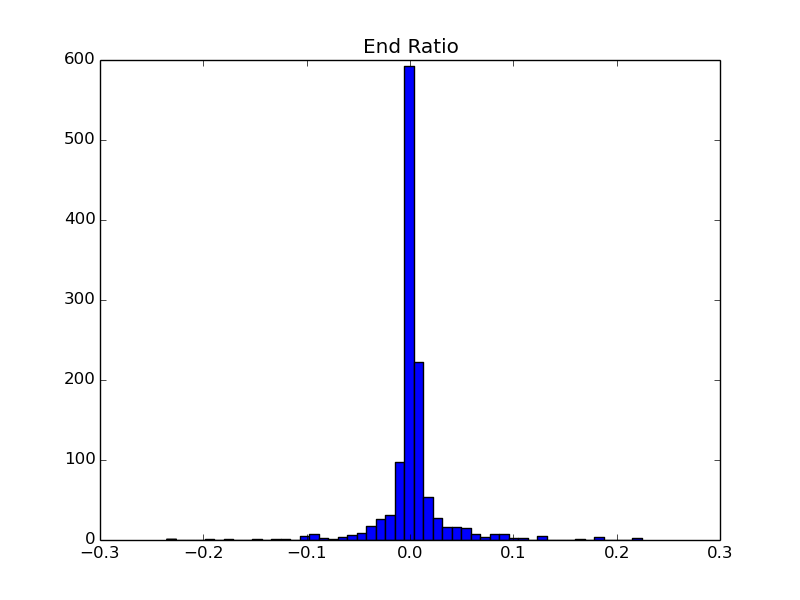
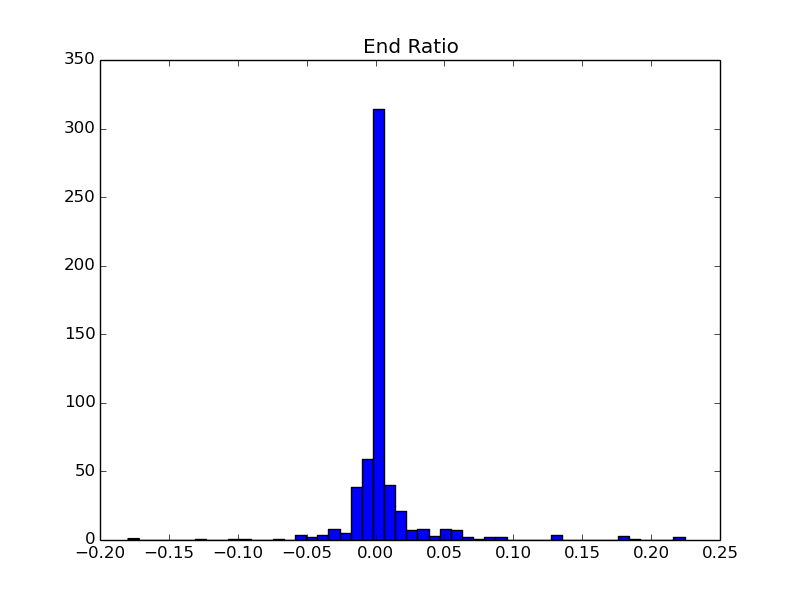
updates

diff --git a/src/master_writer.py b/src/master_writer.py
@@ -49,7 +49,7 @@ def run(DMSOgenes,DMSOTSS,DMSOEND,CAgenes,CATSS,CAEND,filedir,figuredir):
                 coverage = '1'
             d[gene].append(coverage)
             
-    coveragecutoff = 1000
+    coveragecutoff = 1500
     TRlist = list()
     TRgenes = list()
     DMSOTRgenes = list()
